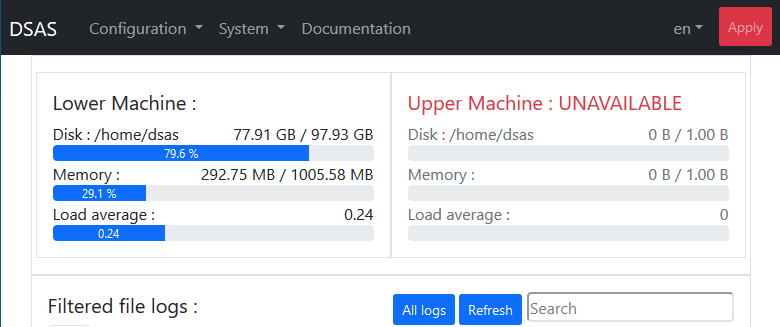
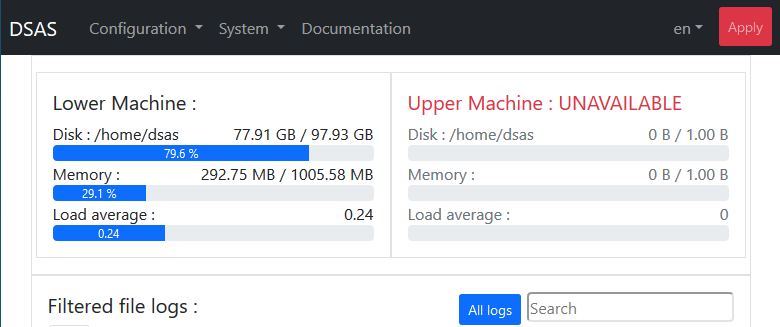
docs: Document the manner in which debian/redhat architectures are taken into account. Update status images for auto-refresh

Changed region(s): [[0.4923, 0.8869, 0.6769, 1.0]]

diff --git a/append/usr/local/share/www/Documentation_fr.md b/append/usr/local/share/www/Documentation_fr.md
@@ -1267,6 +1267,40 @@ tâche est visible en ouvrant la tâche comme
 
 ![Exemple d'éxecution de tache réussi](fr/DSAS32.png)
 
+### Selection d'architecture pour Debian et Redhat
+
+Les dépôt de style Debian et Redhat pourraient être très large. Un moyen de reduire leurs
+taille est de seulement télécharger les fichiers pour les architectures que vous utilisez
+vraiment. Par exemple, si vous n'avez aucun machine Debian avec un architecture `arm64` dans
+votre installation, il n'y a aucun raison de télécharger des fichiers pour cet architecture.
+
+Debian et Radhat permet des fichiers à télécharger à être restrient, mais la manière d'y 
+arriver avec le DSAS est differente, parce que Debian utilisé un seul dépôt monolithique
+et Redhat utilisé des dépôt differents pour chaque architecture et même peut-être par 
+fonctions (main, extras et updates pour Centos par exemple). 
+
+Afin de limiter les fichiers à télécharger pour Debian, le tâche DSAS est directement créé
+ou modifié avec les architecture voulu comme ci-dessous 
+
+![Exemple de selection d'architecture Debian](fr/DSAS43.png)
+
+Ou les architectures speciaux 
+
+- source : Les packages de code source permettant de reconstruire des binaires
+- all : Les packages independant d'un architecture necessaire pour tout architecture
+
+sont egalement fournit.
+
+Parce que Redhat forunit des dépôt par architecture et/ou fonction, le DSAS doit-être
+configuré avec plusieurs tâches pour chaque architecture et/ou fonction voulu. Par 
+exemple, afin de télécharger des mirroir de RHEL v8 pour 64bit pour Intel/Amd et Arm,
+deux tâches DSAS sont a configurer avec des URI comme ci-dessous
+
+```
+https://mirror.example.com/rhel/8Server/x86_64
+https://mirror.example.com/rhel/8Server/arm64
+```
+
 # Maintien en condition de sécurité
 
 ## Analyse des risques principales du DSAS

diff --git a/append/usr/local/share/www/Documentation_en.md b/append/usr/local/share/www/Documentation_en.md
@@ -1227,6 +1227,40 @@ execution of the task is visible by opening the task as
 
 ![Example of successful task execution](en/DSAS32.png) 
 
+### Debian and Redhat architecture selection
+
+The Debian and Redhat style repositories can be very large. One means of reducing their size is 
+to only download the files for archiectures that you will really be using. For instance if you 
+don't have `arm64` debian machines in your infrastructure their is no point is downloading the
+files for this architecture.
+
+Both Debian and Redhat permit the files to be downloaded to be restricted, but the manner in which
+this is achieved with the DSAS if different because Debian has one single monolithic repository
+whereas Redhat seperates the repositories by both function (for example main, extras and updates 
+for Centos) and by architecture.
+
+To limit the files downloaded for Debian is therefore directly controlled in the task creation
+or modification as can be seen in the figure below
+
+![Example of Debian architecture selection](en/DSAS43.png)
+
+Where the special architectures
+
+- source : The source packages permitting the binary packages to be rebuilt
+- all : The architecture independant files needed by all architectures
+
+are also supplied.
+
+As Redhat supplies individual repositories by archiecture and function, the DSAS must be 
+configured with multiple tasks for each architecture and/or functions. For example to
+download a mirror or RHEL v8 for both Intel/AMD 64bit and Arm 64 bit archiectures, two
+DSAS tasks usings the URIs below might be needed
+
+```
+https://mirror.example.com/rhel/8Server/x86_64
+https://mirror.example.com/rhel/8Server/arm64
+```
+
 # Security Maintenance
 
 ## Analysis of the main risks of the DSAS
